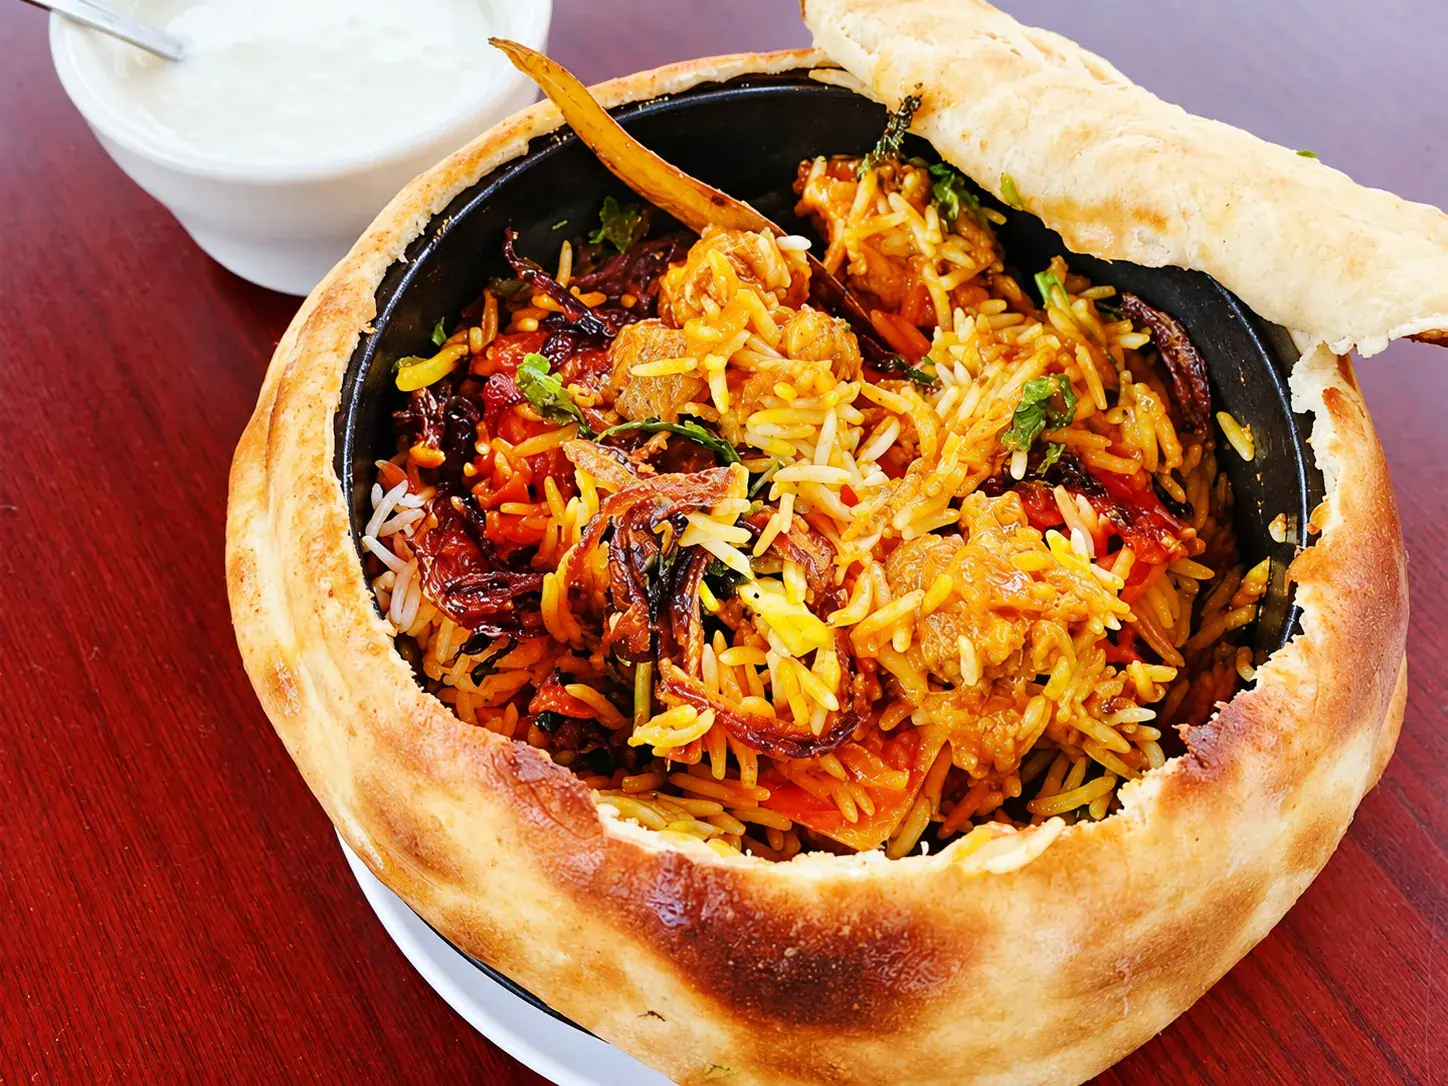
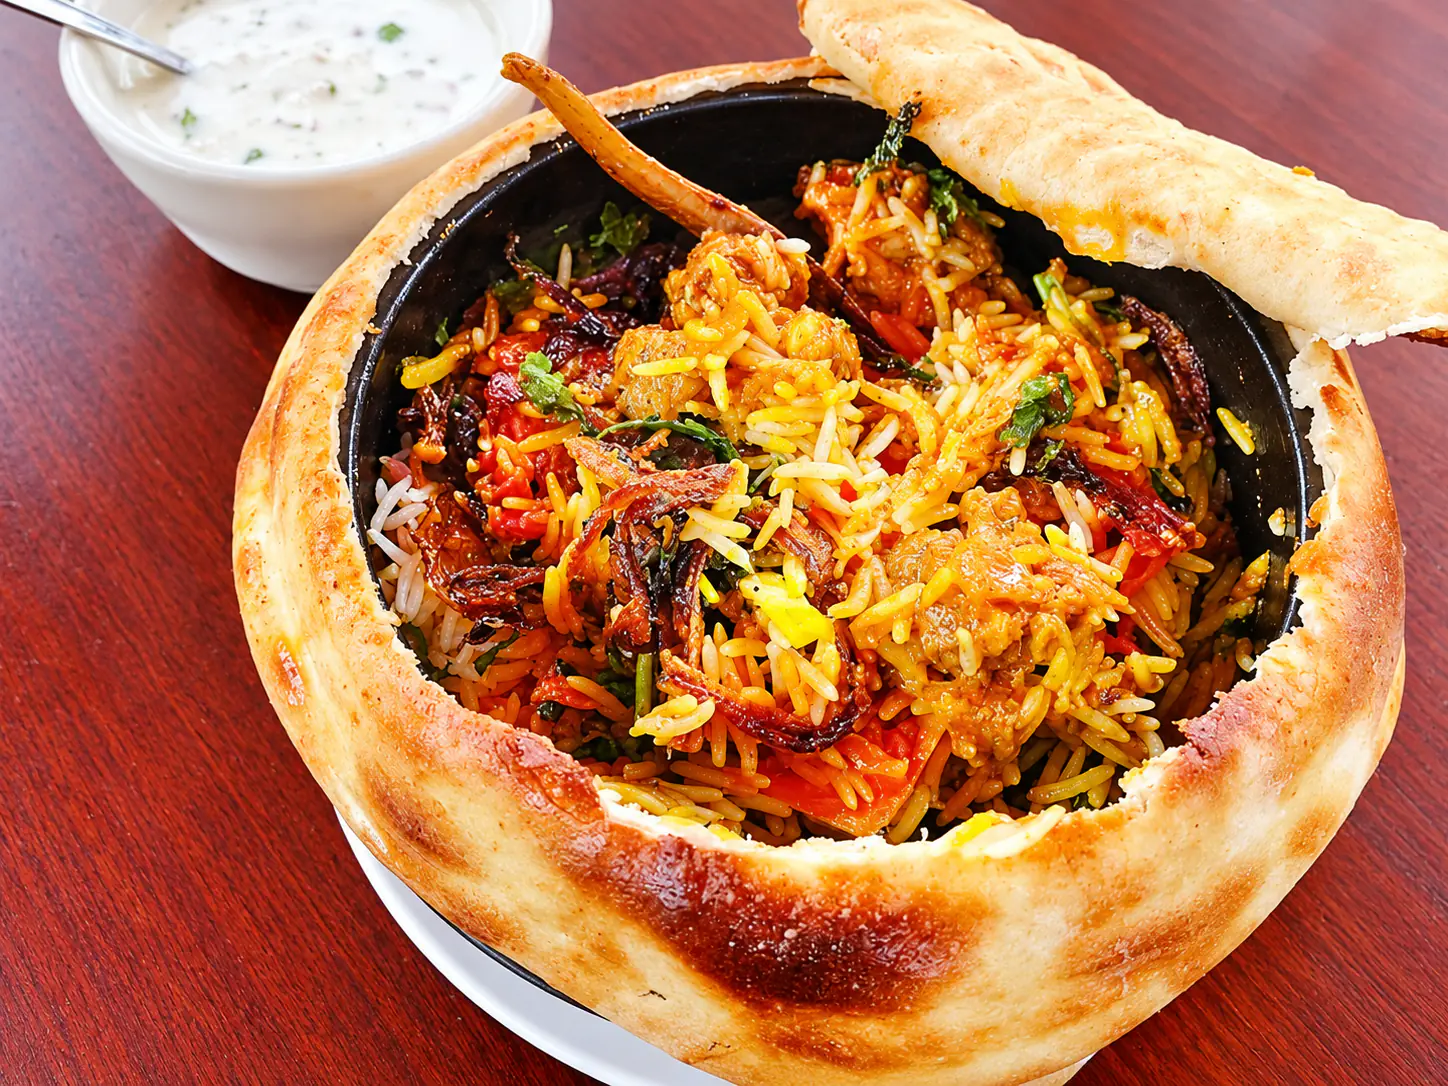
New dish photos, Angel's Special, and whole-photo menu tiles
- The three kulcha dishes shared one stock photo; each now has its own
  (amritsari-paneer-kulcha, amritsari-aloo-kulcha, mix-veg-kulcha), and the
  chicken, goat and vegetable biryani photos are replaced. `npm run db:photos`
  re-points the three kulcha dishes in the database (run it after deploying).
- "The Angel Thali" becomes "Angel's Special": the overhead spread replaces the
  thali plate on the home slideshow, the Story dish index, the gallery and the
  private dining slideshow. The old thali-plate.webp is removed.
- Menu signature tiles now show each photo whole at its own aspect ratio
  instead of cropping to a fixed shape, and the hover zoom is dropped.
- Crop points for the two new wide-in-tall-frame photos.

diff --git a/app/pages.css b/app/pages.css
@@ -38,15 +38,14 @@
   .dish-feature { margin-top: clamp(3rem, 6vw, 5rem); display: grid; gap: clamp(2rem, 4vw, 3rem); }
   .dish-feature-row { display: grid; grid-template-columns: 1.4fr 1fr; gap: clamp(1rem, 2.5vw, 1.75rem); }
   .dish-feature-row.is-solo { grid-template-columns: 1fr; }
-  .dish-feature-row.is-solo .dish-feature-image { aspect-ratio: 16 / 9; }
+  .dish-feature-row.is-solo .dish-feature-image { aspect-ratio: auto; }
   .dish-feature-stack { display: flex; flex-direction: column; gap: clamp(1rem, 2.5vw, 1.75rem); }
   .dish-feature-tile { display: flex; flex-direction: column; transition: opacity 400ms var(--ease-luxe); }
   .dish-feature:has(.dish-feature-tile:hover) .dish-feature-tile:not(:hover) { opacity: .55; }
-  .dish-feature-image { position: relative; flex: 1 1 auto; aspect-ratio: 4 / 5; overflow: clip; border-radius: calc(var(--radius-frame) - .3rem); background: var(--sand); transform: perspective(1100px) rotateX(var(--rx, 0deg)) rotateY(var(--ry, 0deg)); transition: transform 700ms var(--ease-luxe); }
-  .dish-feature-stack .dish-feature-image { aspect-ratio: 1 / 1; }
-  .dish-feature-image img { object-fit: cover; transition: transform var(--duration-cinematic) var(--ease-luxe), filter var(--duration-cinematic) var(--ease-luxe); }
+  .dish-feature-image { position: relative; flex: 0 0 auto; aspect-ratio: 4 / 3; overflow: clip; border: 1px solid rgba(61, 35, 19, .3); border-radius: calc(var(--radius-frame) - .3rem); background: var(--sand); transform: perspective(1100px) rotateX(var(--rx, 0deg)) rotateY(var(--ry, 0deg)); transition: transform 700ms var(--ease-luxe); }
+  .dish-feature-image img { object-fit: contain; transition: transform var(--duration-cinematic) var(--ease-luxe), filter var(--duration-cinematic) var(--ease-luxe); }
   .dish-feature-image::after { content: ""; position: absolute; inset: 0; background: linear-gradient(180deg, transparent 60%, rgba(31, 19, 13, 0.55)); pointer-events: none; }
-  @media (hover: hover) { .dish-feature-tile:hover .dish-feature-image img { transform: scale(var(--image-scale)); filter: brightness(1.05); } }
+  @media (hover: hover) { .dish-feature-tile:hover .dish-feature-image img { filter: brightness(1.05); } }
   .dish-tag { position: absolute; z-index: 2; inset: .9rem .9rem auto auto; }
   .dish-feature-copy { margin-top: 1.1rem; }
   .dish-feature-num { display: block; margin-bottom: .35rem; font-family: var(--font-editorial); font-size: 1rem; font-weight: 300; color: transparent; -webkit-text-stroke: 1px rgba(61, 35, 19, 0.4); }
@@ -359,7 +358,7 @@
   .page-intro-mark { font-size: 40vw; }
   .page-intro h1 { max-width: none; }
   .dish-feature-row, .dish-feature-row.is-solo { grid-template-columns: 1fr; }
-  .dish-feature-row.is-solo .dish-feature-image { aspect-ratio: 4 / 3; }
+  .dish-feature-row.is-solo .dish-feature-image { aspect-ratio: auto; }
   .menu-controls { position: static; align-items: start; flex-direction: column; }
   .menu-categories { width: 100%; gap: 1.5rem; overscroll-behavior-inline: contain; scroll-snap-type: x proximity; }
   .menu-categories button { scroll-snap-align: start; }

diff --git a/components/signature-plates.tsx b/components/signature-plates.tsx
@@ -4,7 +4,21 @@ import { SectionHead } from "@/components/section-head";
 import type { Category, MenuItem } from "@/lib/menu-types";
 import { money } from "@/lib/menu-types";
 
-type Plate = { name: string; price: string; description: string; section?: string; image: string; vegetarian: boolean; stock: boolean };
+type Plate = { name: string; price: string; description: string; section?: string; image: string; imageRatio: string; vegetarian: boolean; stock: boolean };
+
+function imageRatio(image: string) {
+  const ratios: [string, string][] = [
+    ["chicken-dum-biryani.webp", "1536 / 1024"],
+    ["amritsari-paneer-kulcha.webp", "1536 / 1024"],
+    ["vegetable-dum-biryani.webp", "1200 / 675"],
+    ["goat-dum-biryani.webp", "1448 / 1086"],
+    ["chole-bhatura.webp", "1448 / 1086"],
+    ["amritsari-kulcha-stock.webp", "1600 / 1200"],
+    ["amritsari-aloo-kulcha.webp", "1199 / 1312"],
+    ["mix-veg-kulcha.webp", "1408 / 1117"],
+  ];
+  return ratios.find(([filename]) => image.endsWith(filename))?.[1] ?? "4 / 3";
+}
 
 const order = (index: number) => ({ "--i": index } as CSSProperties);
 
@@ -26,6 +40,7 @@ export function SignaturePlates({ specials, categories, dishCount }: { specials:
     description: dish.featuredDescription || dish.description,
     section: categories.find(category => category.id === dish.categoryId)?.title,
     image: dish.image,
+    imageRatio: imageRatio(dish.image),
     vegetarian: dish.vegetarian,
     stock: dish.image.includes("-stock"),
   })).sort((a, b) => Number(a.stock) - Number(b.stock));
@@ -65,7 +80,7 @@ export function SignaturePlates({ specials, categories, dishCount }: { specials:
 function DishTile({ dish, index, large, eager }: { dish: Plate; index: number; large?: boolean; eager?: boolean }) {
   return (
     <article className={`dish-feature-tile${large ? " is-large" : ""}`} data-reveal="photo" data-tilt style={order(index)}>
-      <div className="dish-feature-image">
+      <div className="dish-feature-image" style={{ aspectRatio: dish.imageRatio }}>
         <Image
           src={dish.image}
           alt={dish.stock ? `${dish.name} — illustrative food photograph` : dish.name}

diff --git a/app/page.tsx b/app/page.tsx
@@ -144,7 +144,7 @@ export default async function Home() {
         <span className="hairline section-hairline" aria-hidden="true" />
         <div className="container-shell chef-grid">
           <div className="chef-portrait" data-reveal="photo">
-            <div className="photo-frame chef-photo"><CinematicSlideshow label="The food and place behind Chef Amrit Pal Singh’s story" slides={[{ name: "thali-plate", alt: "An Indian meal served in traditional dishes, Angel editorial collection" }, { name: "dining-room-portrait-v2", alt: "Angel’s dining room on 37th Avenue" }, { name: "table-spread", alt: "A generous table of Indian dishes at Angel" }]} /></div>
+            <div className="photo-frame chef-photo"><CinematicSlideshow label="The food and place behind Chef Amrit Pal Singh’s story" slides={[{ name: "angels-special", alt: "Angel’s Special: an overhead spread of Indian dishes around a bread-sealed biryani" }, { name: "dining-room-portrait-v2", alt: "Angel’s dining room on 37th Avenue" }, { name: "table-spread", alt: "A generous table of Indian dishes at Angel" }]} /></div>
             <div className="chip-float chip-float-tr frame frame-strong"><p className="eyebrow">A generous spirit, in every detail.</p></div>
             <Photo name="tandoori-chicken" alt="Tandoori chicken from the clay oven, a closer look" className="story-image-accent photo-frame" sizes="200px" />
           </div>

diff --git a/app/private-dining/page.tsx b/app/private-dining/page.tsx
@@ -17,7 +17,7 @@ export default function PrivateDiningPage() {
         <div className="container-shell private-dining">
           <div>
             <div className="photo-frame private-media" data-reveal="photo">
-              <CinematicSlideshow className="private-cinema" label="Private dining atmosphere at Angel" intervalMs={2500} showPause={false} slides={[{ name: "room-guests-v2", alt: "Guests dining together in Angel’s dining room" }, { name: "room-long-table-v2", alt: "A long table set for a group along the banquette at Angel" },{ name: "table-spread", alt: "A table of Indian dishes ready to share" }, { name: "thali-plate", alt: "A generous Indian meal for a gathering" }]} />
+              <CinematicSlideshow className="private-cinema" label="Private dining atmosphere at Angel" intervalMs={2500} showPause={false} slides={[{ name: "room-guests-v2", alt: "Guests dining together in Angel’s dining room" }, { name: "room-long-table-v2", alt: "A long table set for a group along the banquette at Angel" },{ name: "table-spread", alt: "A table of Indian dishes ready to share" }, { name: "angels-special", alt: "A spread of Indian dishes ready for a gathering" }]} />
             </div>
             <div className="private-copy" data-reveal="words">
               <p className="eyebrow eyebrow-rule rise">Good company deserves good food</p>

diff --git a/app/story/page.tsx b/app/story/page.tsx
@@ -15,7 +15,7 @@ export default function StoryPage() {
       <section className="surface-gold tone-gold section" aria-labelledby="chef-title">
         <div className="container-shell story-feature">
           <div className="story-media" data-reveal="photo">
-            <DishIndex layout="stacked" label="Hover or tap a dish from Chef Amrit Pal Singh’s kitchen to preview it" slides={[{ name: "thali-plate", alt: "A generous Indian meal from Angel’s editorial collection", title: "The Angel Thali" }, { name: "tandoori-chicken", alt: "Food cooking in the tandoor at Angel", title: "From the Tandoor" }, { name: "table-spread", alt: "A table filled with Indian dishes at Angel", title: "A Generous Feast" }]} />
+            <DishIndex layout="stacked" label="Hover or tap a dish from Chef Amrit Pal Singh’s kitchen to preview it" slides={[{ name: "angels-special", alt: "Angel’s Special: an overhead spread of Indian dishes around a bread-sealed biryani", title: "Angel’s Special" }, { name: "tandoori-chicken", alt: "Food cooking in the tandoor at Angel", title: "From the Tandoor" }, { name: "table-spread", alt: "A table filled with Indian dishes at Angel", title: "A Generous Feast" }]} />
           </div>
           <div data-reveal="words">
             <p className="eyebrow eyebrow-rule rise">Chef Amrit Pal Singh</p>

diff --git a/app/site.css b/app/site.css
@@ -349,6 +349,8 @@
   img[src*="lamb-karahi"] { object-position: 36% 50%; }
   img[src*="chole-bhatura"] { object-position: 35% 55%; }
   img[src*="goat-dum-biryani"] { object-position: 55% 50%; }
+  img[src*="mix-veg-kulcha"] { object-position: 38% 50%; }
+  img[src*="angels-special"] { object-position: 50% 45%; }
   img[src*="dinner-spread"] { object-position: 50% 40%; }
   @media (max-width: 767px) {
     .editorial-photo--art img { object-position: 50% 58%; }
@@ -896,9 +898,9 @@
     @keyframes plating-single { from { opacity: 0; transform: translateY(30px); } to { opacity: 1; transform: none; } }
   }
 }
+
 @media (max-width: 64rem) {
   .signature-grid, .recognition-cards, .bar-grid { grid-template-columns: 1fr; }
-
   .bar-media { padding: 0 0 2.5rem; }
   .signature-grid > :nth-child(2) { margin-top: 0; }
   .footer-grid { grid-template-columns: 1fr 1fr; }

diff --git a/app/gallery/page.tsx b/app/gallery/page.tsx
@@ -14,7 +14,7 @@ const photos = [
   { name: "dinner-spread", label: "The comfort of familiar flavors" },
   { name: "lamb-karahi", label: "A little spice, a little soul" },
   { name: "table-spread", label: "Better when shared" },
-  { name: "thali-plate", label: "An invitation to linger" },
+  { name: "angels-special", label: "An invitation to linger" },
   { name: "bar-counter", label: "Full bar" },
   { name: "storefront-street", label: "Make your way to Angel" },
   { name: "chole-bhatura", label: "Chole Bhatura" },
